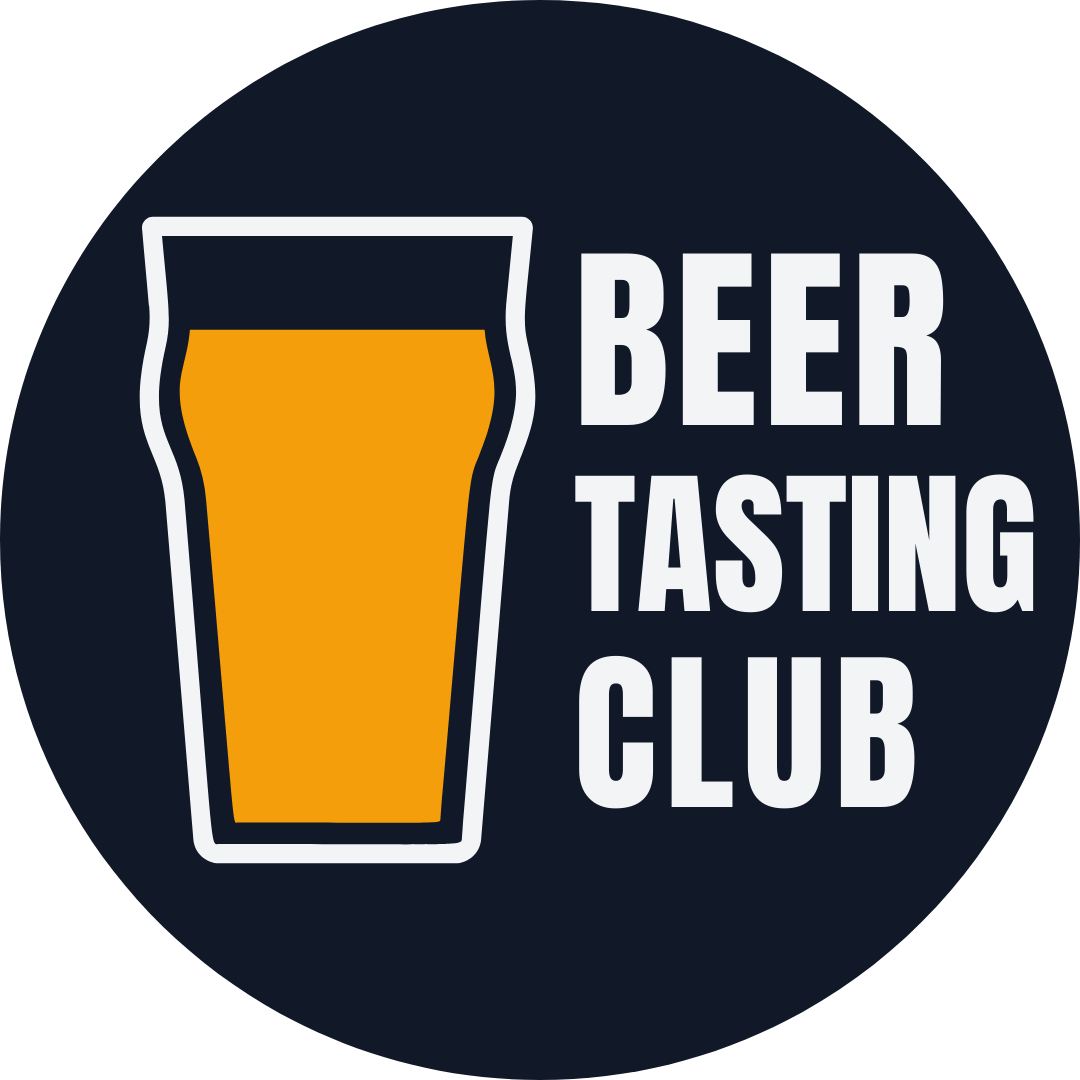
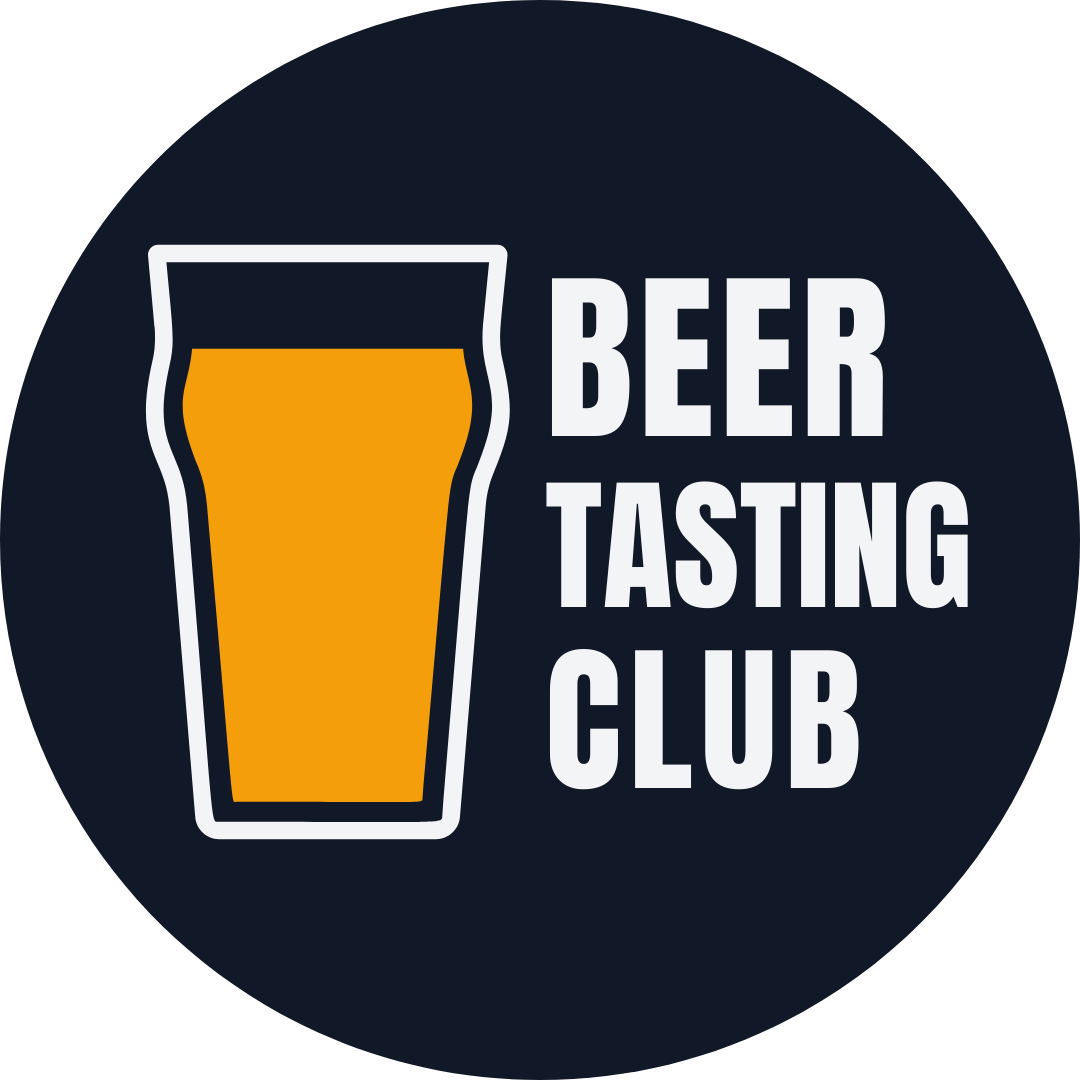
Piccole migliorie app

Changed region(s): [[0.1222, 0.1833, 0.9778, 0.825]]

diff --git a/css/style.css b/css/style.css
@@ -60,7 +60,7 @@ hr { border: 0; border-top: 1px solid #374151; margin: 25px 0; }
     color: var(--text-muted); font-weight: 500; font-size: 0.95rem;
 }
 .header-link:hover { color: white; }
-.header-logo { width: 40px; height: auto; }
+.header-logo { width: 65px; height: auto; }
 
 .card {
     background-color: var(--card-bg); border-radius: var(--radius);
@@ -96,7 +96,7 @@ input:focus, select:focus, textarea:focus {
 
 /* 7. HOMEPAGE & DASHBOARD */
 .home-header { text-align: center; margin-bottom: 30px; padding: 20px 0; }
-.logo-large { width: 120px; margin-bottom: 15px; filter: drop-shadow(0 0 10px rgba(245, 158, 11, 0.3)); }
+.logo-large { width: 180px; margin-bottom: 15px; filter: drop-shadow(0 0 10px rgba(245, 158, 11, 0.3)); }
 .menu-grid { display: grid; grid-template-columns: 1fr; gap: 15px; }
 .menu-item {
     background-color: var(--card-bg); padding: 25px; border-radius: var(--radius);

diff --git a/index.html b/index.html
@@ -16,8 +16,7 @@
         
         <header class="home-header">
             <img src="assets/logo.png" alt="Logo" class="logo-large">
-            <h2>Beer Tasting Club</h2>
-            <p style="color: var(--text-muted);">Il tuo diario di degustazione digitale</p>
+            <p style="color: var(--text-muted);">Il tuo compagno digitale di degustazione</p>
         </header>
 
         <div id="auth-view" style="display: none;">
@@ -95,7 +94,7 @@
         </div>
 
         <footer style="text-align: center; margin-top: 40px; font-size: 0.8rem; color: #4b5563;">
-            &copy; 2025 Beer Tasting Club
+            &copy; 2026 Beer Tasting Club
         </footer>
     </div>
 
